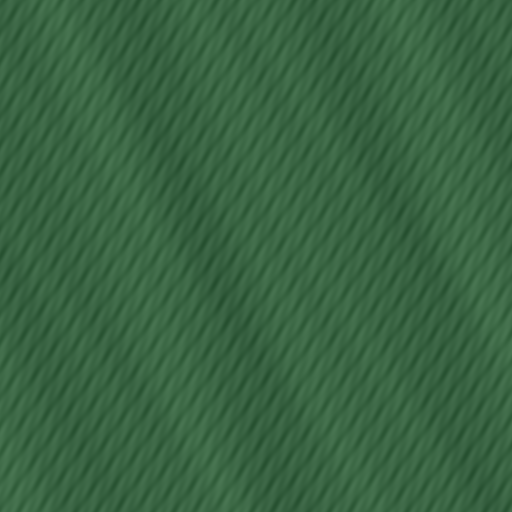
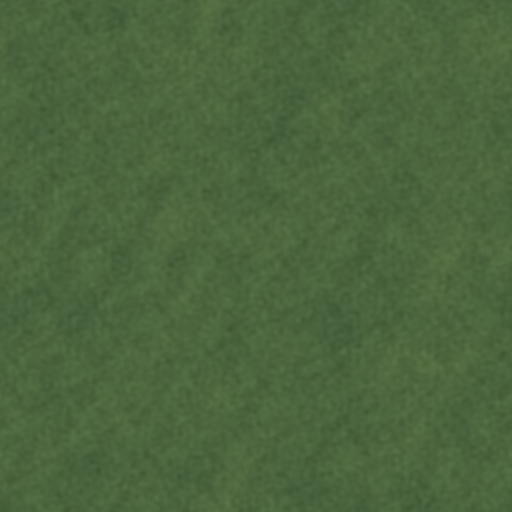
feat(world): organic seamless terrain tiles (kill the diagonal moiré)
Rebuild the biome ground tiles from many random INTEGER wavevectors instead
of 4 fixed-orientation gratings — that removes the diagonal "fabric" banding
and the seams, giving mottled organic ground (broad tone patches + mid shade
+ fine grain). Warmer dark-fantasy grass palette.

Changed region(s): [[0.0, 0.0, 1.0, 1.0], [0.0, 0.875, 0.0312, 0.9375], [0.5938, 0.5938, 0.625, 0.625]]

diff --git a/tools/make_terrain.py b/tools/make_terrain.py
@@ -1,10 +1,12 @@
 #!/usr/bin/env python3
 """Generate seamless tileable biome ground textures for the RTS world.
 
-Each map's flat 2048x2048 ground is a single Sprite2D with texture_repeat
-enabled, so these tiles must be SEAMLESS (wrap top/bottom and left/right).
-Seamlessness is achieved by building the noise from sine waves whose periods
-divide the tile size exactly — so the pattern is continuous across the edge.
+Each map's ground is one Sprite2D with texture_repeat, so the tiles must be
+SEAMLESS (wrap on both axes). Seamlessness comes from summing sine waves with
+INTEGER wavevectors (kx, ky) — each term is exactly periodic over the tile.
+Using many random integer wavevectors (rather than a few fixed orientations)
+makes the noise isotropic, which kills the diagonal moiré "fabric" banding the
+old 4-grating version produced.
 
 Keep luma in ~0.4-0.6 so per-map MapConfig tints (Jungle = white = identity,
 Volcanic = warm 1.15x) don't blow out to white.
@@ -24,37 +26,48 @@ OUT_DIR = ROOT / "assets" / "terrain"
 SIZE = 512
 
 
-def _seamless_noise(size: int, freqs: list[int], seed: int) -> np.ndarray:
-    """Sum of sine gratings at integer frequencies (cycles per tile) with random
-    phases/orientations. Integer freqs => period divides the tile => seamless.
-    Returns a float field roughly in [-1, 1]."""
+def _seamless_noise(size: int, n_waves: int, fmin: float, fmax: float, seed: int) -> np.ndarray:
+    """Isotropic seamless value noise: sum of sine gratings with random INTEGER
+    wavevectors of magnitude in [fmin, fmax], 1/|k| (pink) weighting. Integer
+    wavevectors => each grating wraps the tile exactly => seamless. Returns a
+    field in [-1, 1]."""
     rng = np.random.default_rng(seed)
     xs = np.linspace(0.0, 2.0 * np.pi, size, endpoint=False)
     gx, gy = np.meshgrid(xs, xs)
     field = np.zeros((size, size), dtype=np.float64)
-    for f in freqs:
+    made = 0
+    while made < n_waves:
+        kx = int(rng.integers(-int(fmax), int(fmax) + 1))
+        ky = int(rng.integers(-int(fmax), int(fmax) + 1))
+        m = float(np.hypot(kx, ky))
+        if m < fmin or m > fmax:
+            continue
         ph = rng.uniform(0.0, 2.0 * np.pi)
-        ang = rng.uniform(0.0, 2.0 * np.pi)
-        ux, uy = np.cos(ang), np.sin(ang)
-        field += np.sin(f * (gx * ux + gy * uy) + ph) / f
+        field += np.sin(kx * gx + ky * gy + ph) / m
+        made += 1
     field -= field.min()
     field /= max(field.max(), 1e-6)
-    return field * 2.0 - 1.0  # [-1, 1]
+    return field * 2.0 - 1.0
 
 
-def make_tile(name: str, base_rgb, accent_rgb, accent_amount: float,
-              freqs: list[int], seed: int) -> None:
-    """Blend a base colour with an accent by a seamless noise mask, plus a fine
-    grain so it doesn't look flat. Output stays mid-luma."""
+def make_tile(name: str, base_rgb, accent_rgb, accent_amount: float, seed: int,
+              dark_rgb=None) -> None:
+    """Blend base->accent by a low-frequency seamless mask (broad tonal patches),
+    darken with a second mask (mottled shade), and add fine grain so it reads as
+    organic ground, not a flat fill."""
     base = np.array(base_rgb, dtype=np.float64) / 255.0
     accent = np.array(accent_rgb, dtype=np.float64) / 255.0
+    dark = np.array(dark_rgb if dark_rgb else accent_rgb, dtype=np.float64) / 255.0
 
-    mask = (_seamless_noise(SIZE, freqs, seed) * 0.5 + 0.5)  # [0,1]
-    grain = _seamless_noise(SIZE, [32, 48, 64], seed + 99) * 0.05
+    patches = _seamless_noise(SIZE, 40, 2.0, 9.0, seed) * 0.5 + 0.5          # broad tone
+    mottle = _seamless_noise(SIZE, 48, 9.0, 22.0, seed + 7) * 0.5 + 0.5      # mid shade
+    grain = _seamless_noise(SIZE, 80, 24.0, 80.0, seed + 99) * 0.045         # fine grain
 
     img = np.empty((SIZE, SIZE, 3), dtype=np.float64)
     for c in range(3):
-        chan = base[c] + (accent[c] - base[c]) * (mask * accent_amount) + grain
+        chan = base[c] + (accent[c] - base[c]) * (patches * accent_amount)
+        chan += (dark[c] - chan) * (mottle * 0.28)
+        chan += grain
         img[:, :, c] = np.clip(chan, 0.0, 1.0)
 
     out = OUT_DIR / ("%s.png" % name)
@@ -64,11 +77,11 @@ def make_tile(name: str, base_rgb, accent_rgb, accent_amount: float,
 
 
 def main() -> None:
-    # base, accent, accent_amount, frequencies, seed
-    make_tile("grass", (62, 107, 71), (44, 84, 54), 0.7, [3, 5, 8, 13], 1)
-    make_tile("sand_reef", (188, 168, 120), (120, 150, 140), 0.55, [2, 4, 7, 11], 2)
-    make_tile("azure_coast", (150, 178, 196), (110, 150, 180), 0.6, [3, 6, 9, 14], 3)
-    make_tile("volcanic", (74, 58, 52), (120, 60, 38), 0.5, [4, 6, 10, 16], 4)
+    # base, accent, accent_amount, seed, dark
+    make_tile("grass", (74, 102, 64), (96, 120, 70), 0.7, 1, dark_rgb=(40, 58, 36))
+    make_tile("sand_reef", (188, 168, 120), (150, 158, 120), 0.55, 2, dark_rgb=(120, 110, 78))
+    make_tile("azure_coast", (150, 178, 196), (120, 156, 176), 0.6, 3, dark_rgb=(92, 120, 140))
+    make_tile("volcanic", (74, 58, 52), (110, 64, 42), 0.5, 4, dark_rgb=(40, 30, 28))
 
 
 if __name__ == "__main__":
